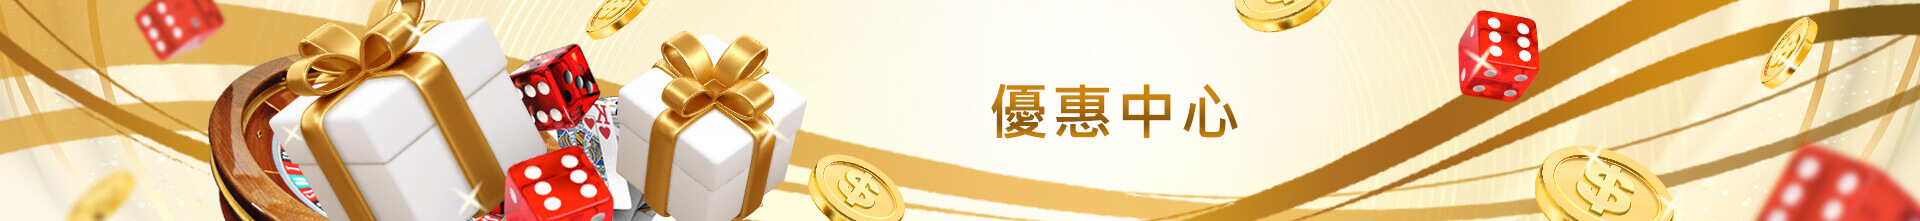
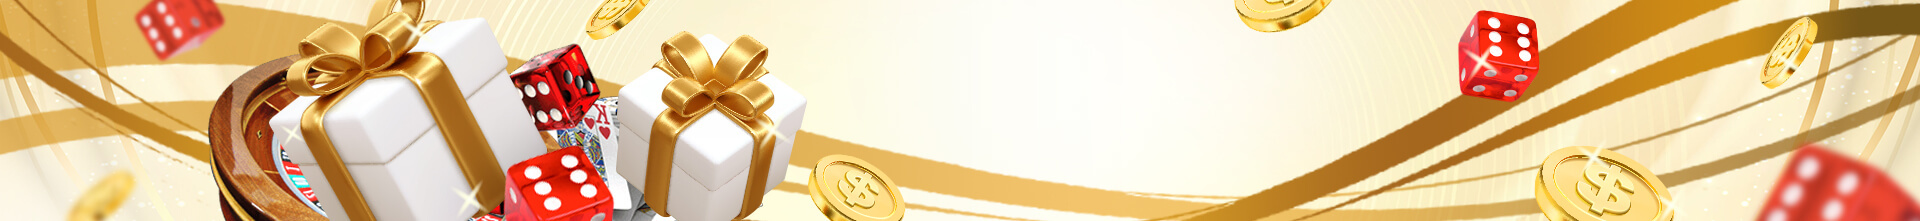
111-10-18

Changed region(s): [[0.5, 0.3801, 0.6562, 0.6244]]

diff --git a/css/style.css b/css/style.css
@@ -2617,6 +2617,7 @@ html body .gameWrap .content .textBox .title {
   background: -webkit-gradient(linear, left top, left bottom, from(#c6740a), color-stop(81%, #f2aa1f));
   background: linear-gradient(to bottom, #c6740a 0%, #f2aa1f 81%);
   -webkit-background-clip: text;
+          background-clip: text;
 }
 html body .gameWrap .content .textBox .title .big {
   font-size: 62px;
@@ -2941,10 +2942,21 @@ html body .eventWrap .eventTitle {
   -webkit-box-pack: center;
       -ms-flex-pack: center;
           justify-content: center;
+  position: relative;
 }
-html body .eventWrap .eventTitle p {
+html body .eventWrap .eventTitle .titleClip {
+  width: 244px;
+  height: 61px;
+  background: -webkit-gradient(linear, left top, left bottom, color-stop(23%, #CA850D), color-stop(70%, #8C5A0B), color-stop(95%, #CA850D));
+  background: linear-gradient(to bottom, #CA850D 23%, #8C5A0B 70%, #CA850D 95%);
+  -webkit-background-clip: text;
+          background-clip: text;
+  position: absolute;
+  top: 35%;
+  left: 51.8%;
+}
+html body .eventWrap .eventTitle .titleClip p {
   font-size: 61px;
-  color: #77400b;
   font-weight: bold;
 }
 html body .eventWrap .eventBody {

diff --git a/scss/_event.scss b/scss/_event.scss
@@ -7,11 +7,21 @@
         display: flex;
         align-items: center;
         justify-content: center;
-    
-        p {
-            font-size: 61px;
-            color: $title_1;
-            font-weight: bold;
+        position: relative;
+
+        .titleClip {
+            width: 244px;
+            height: 61px;
+            background: $eventTitle;
+            background-clip: text;
+            position: absolute;
+            top: 35%;
+            left: 51.8%;
+            
+            p {
+                font-size: 61px;
+                font-weight: bold;
+            }
         }
     }
     

diff --git a/scss/_colorStyle.scss b/scss/_colorStyle.scss
@@ -253,6 +253,9 @@ $marquee_LinearWord: #ffffff;
 $gameWrap_Linear: linear-gradient(to bottom, #c6740a 0%, #f2aa1f 81%);
 $gameWrap_smallTitle: #cc7d0e;
 
+//eventWrap大title字
+$eventTitle: linear-gradient(to bottom, #CA850D 23%, #8C5A0B 70%, #CA850D 95%);
+
 //innerPage
 $naviconCircle: linear-gradient(to top, #f8cf56 0%, #df9e28 29%, #ffd967 62%);
 $innerPlatBox_BG: #fffdf7;

diff --git a/scss/_header.scss b/scss/_header.scss
@@ -418,6 +418,10 @@ header {
                                     }
                                 }
                             }
+
+                            &:hover,&:active,&.active {
+                                
+                            }
                         }
                     }
                 }

diff --git a/html/event.html b/html/event.html
@@ -421,6 +421,9 @@
     <main>
         <div class="eventWrap">
             <div class="eventTitle">
+                <div class="titleClip">
+                    <p>優惠中心</p>
+                </div>
             </div>
             <div class="eventBody">
                 <div class="side">

diff --git a/scss/_gameWrap.scss b/scss/_gameWrap.scss
@@ -100,7 +100,7 @@
                 align-items: flex-end;
                 font-weight: bold;
                 background: $gameWrap_Linear;
-                -webkit-background-clip: text;
+                background-clip: text;
 
                 .big {
                     font-size: 62px;
